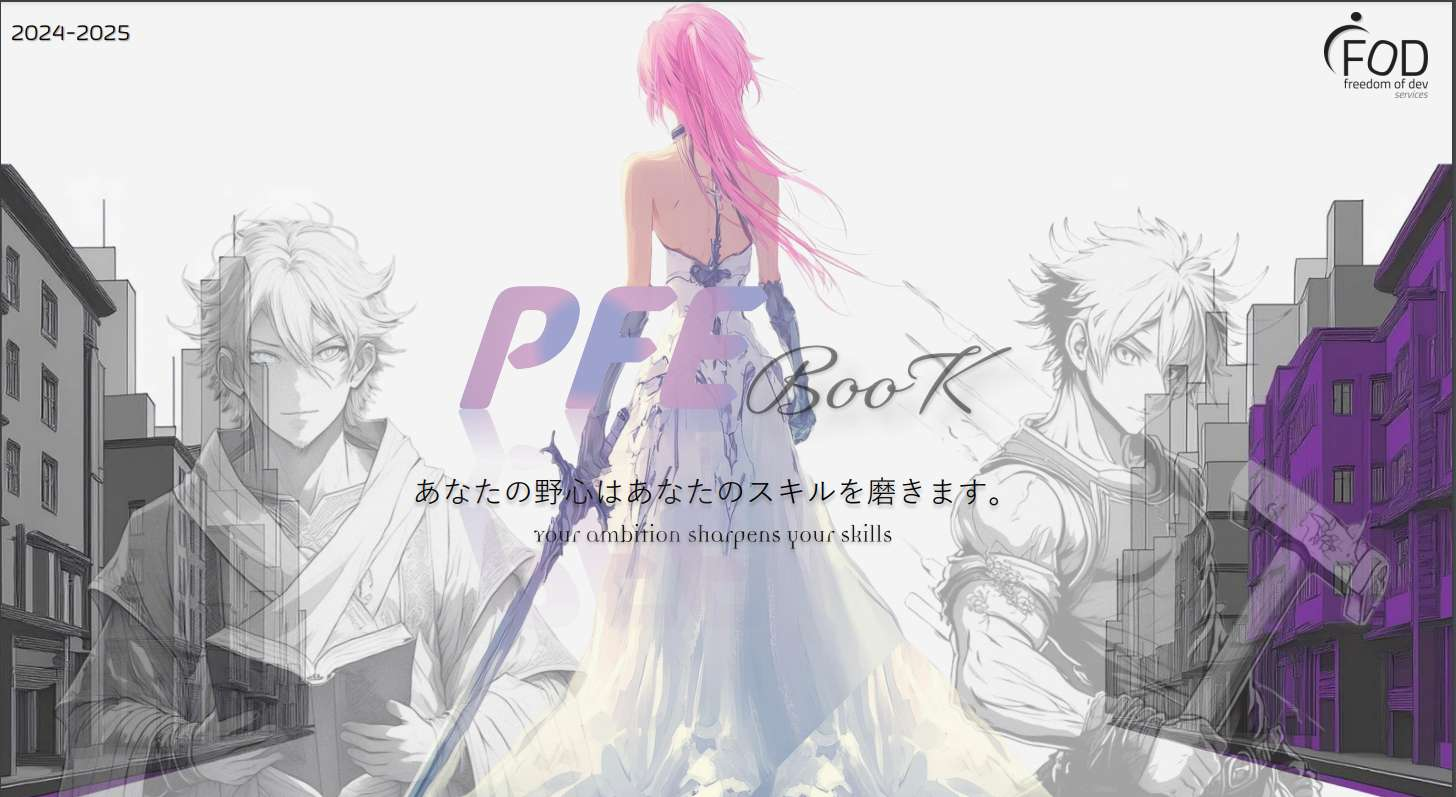
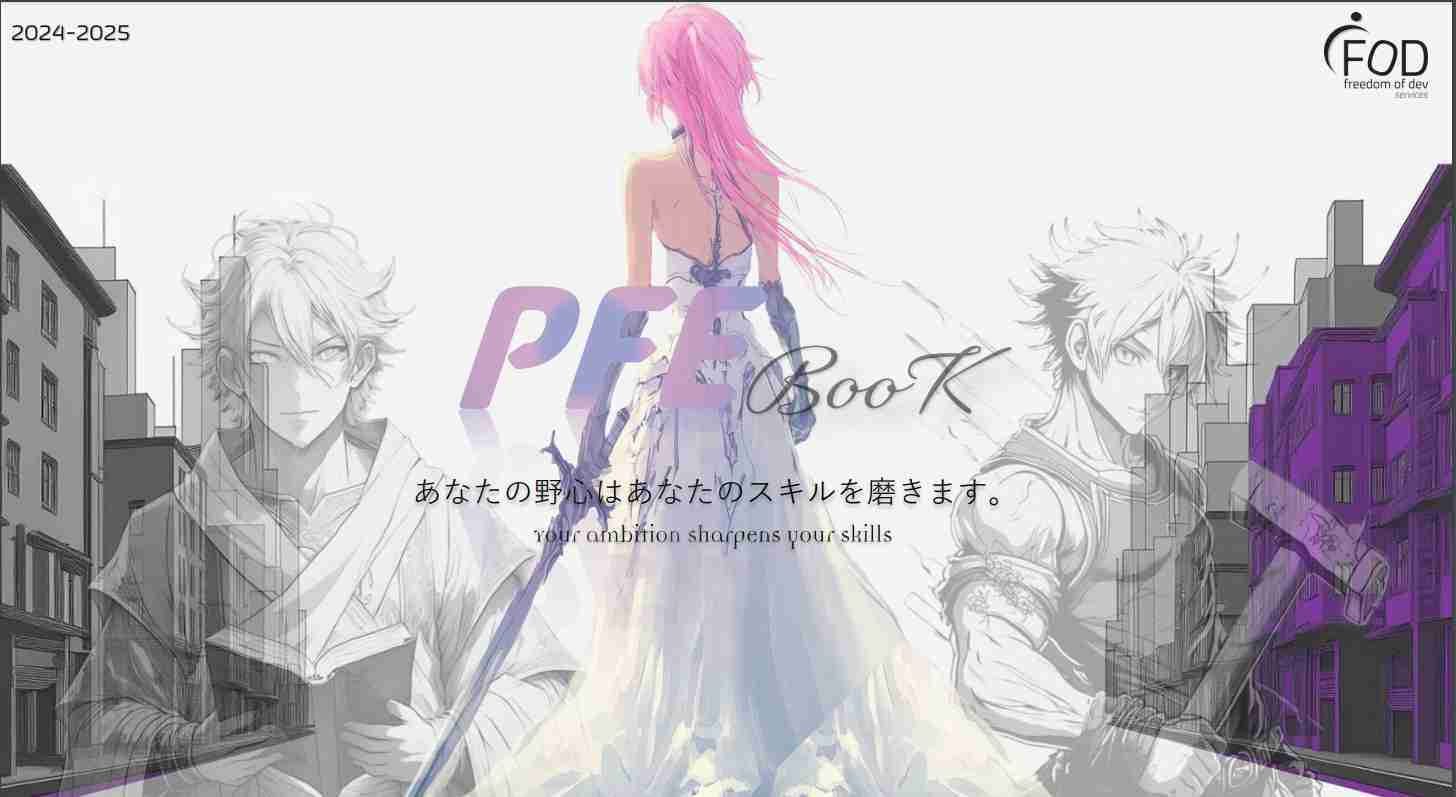
compressed the pics

diff --git a/pdfs.js b/pdfs.js
@@ -14,7 +14,7 @@ books = [
         "company": "DNEXT",
         "deadline": "",
         "Tags": "AI, Generative AI, LLMs, DevOps, ",
-        "thumbnail_url": "/assets/images/DNEXT.png",
+        "thumbnail_url": "/assets/images/DNEXT.jpg",
         "pdf_url":  "./assets/pdfs/DNEXT.pdf",
         "linked_url": "https://www.linkedin.com/posts/dnext-intelligence_dnext-pfe-book-24-25-activity-7259990277656907776-SlSa?utm_source=share&utm_medium=member_desktop"
     },
@@ -22,7 +22,7 @@ books = [
         "company": "ATS",
         "deadline": "",
         "Tags": "Web Development, PO, QA",
-        "thumbnail_url": "/assets/images/ATS.png",
+        "thumbnail_url": "/assets/images/ATS.jpg",
         "pdf_url":  "./assets/pdfs/ATS.pdf",
         "linked_url": "https://www.linkedin.com/posts/ats---digital-dev_pfe-book-ats-2025-activity-7246564406350761985-Gclf?utm_source=share&utm_medium=member_desktop"
     },
@@ -46,7 +46,7 @@ books = [
         "company": "SOPAL",
         "deadline": "20 December 2024",
         "Tags": "Technical development, IT, Supply Chain Management, Continuous Improvement, Product Quality and Metrology, SMI",
-        "thumbnail_url": "/assets/images/SOPAL.png",
+        "thumbnail_url": "/assets/images/SOPAL.jpg",
         "pdf_url":  "./assets/pdfs/SOPAL.pdf",
         "linked_url": "https://www.linkedin.com/posts/sopal_pfe-book-sopal-2024-2025-activity-7259892917689864194-l9T5?utm_source=share&utm_medium=member_desktop"
     },
@@ -97,7 +97,7 @@ books = [
         "company": "Dar Blockchain",
         "deadline": "30 November 2024",
         "Tags": "Python, AI, ML, Web Development, BI, Blockchain, Design",
-        "thumbnail_url": "/assets/images/DarBlockchain.png",
+        "thumbnail_url": "/assets/images/DarBlockchain.jpg",
         "pdf_url": "./assets/pdfs/DarBlockchain.pdf",
         "linked_url": "https://www.linkedin.com/posts/dar-blockchain_pfe-book-tech-2025-activity-7259921019019137024-Kx_-?utm_source=share&utm_medium=member_desktop"
     },
@@ -121,7 +121,7 @@ books = [
         "company": "Value",
         "deadline": "",
         "Tags": "Web Development, Mobile Development, AI, DevOps, QA, Automation, Marketing, Sales, Business Development, Digital Marketing, Graphic Design, Management",
-        "thumbnail_url": "/assets/images/Value.png",
+        "thumbnail_url": "/assets/images/Value.jpg",
         "pdf_url": "./assets/pdfs/Value.pdf",
         "linked_url": "https://www.linkedin.com/posts/value-tunisie_catalogue-pfe-2024-2025-activity-7259191338087174145-ZgMd?utm_source=share&utm_medium=member_desktop"
     },
@@ -129,7 +129,7 @@ books = [
         "company": "celestial Wave Digital",
         "deadline": "",
         "Tags": "Web Development, Mobile Development",
-        "thumbnail_url": "/assets/images/CWD.png",
+        "thumbnail_url": "/assets/images/CWD.jpg",
         "pdf_url": "./assets/pdfs/CWD.pdf",
         "linked_url": "https://www.linkedin.com/posts/celestial-wave-digital_pfe-book-2025-activity-7259256705824305152-IY6w?utm_source=share&utm_medium=member_desktop"
     },
@@ -145,7 +145,7 @@ books = [
         "company": "Sofrecom",
         "deadline": "21 november 2024",
         "Tags": "DevOps, MLOps, Web Development, Mobile Development, AI, Python, Cloud, BI, Test Automation, Blockchain",
-        "thumbnail_url": "/assets/images/Sofrecom.png",
+        "thumbnail_url": "/assets/images/Sofrecom.jpg",
         "pdf_url": "./assets/pdfs/Sofrecom.pdf",
         "linked_url": "https://www.linkedin.com/posts/sofrecom-tunisie_sofrecomtunisie-apprentissage-stagepfe-activity-7259214236663369728-RmvT?utm_source=share&utm_medium=member_desktop"
     },
@@ -153,7 +153,7 @@ books = [
         "company": "E-Skills Agency",
         "deadline": "23 december 2024",
         "Tags": "Web Development, QA, Business Development, Graphic Design, Video Editing, Odoo ",
-        "thumbnail_url": "/assets/images/Eskills.png",
+        "thumbnail_url": "/assets/images/Eskills.jpg",
         "pdf_url": "./assets/pdfs/Eskills.pdf",
         "linked_url": "https://www.linkedin.com/posts/eskillstn_catalogue-pfe-2024-2025-activity-7259235554246967296-k7Lt?utm_source=share&utm_medium=member_desktop"
     },
@@ -161,7 +161,7 @@ books = [
         "company": "SeekMake",
         "deadline": "",
         "Tags": "IT, UI/UX design, Copy Writing, QA testing, Graphic Design, Finance, Business Development, Marketing, Sales  ",
-        "thumbnail_url": "/assets/images/SeekMake.png",
+        "thumbnail_url": "/assets/images/SeekMake.jpg",
         "pdf_url": "./assets/pdfs/SeekMake.pdf",
         "linked_url": "https://www.linkedin.com/posts/seekmake_pfe-book-activity-7259588130238857216-Hoou?utm_source=share&utm_medium=member_desktop"
     },
@@ -185,7 +185,7 @@ books = [
         "company": "KAMIOUN",
         "deadline": "",
         "Tags": "UI/UX Design, Web Development, Mobile Development, DevOps, Data, Finance, Supply Chain, Marketing",
-        "thumbnail_url": "/assets/images/KAMIOUN.png",
+        "thumbnail_url": "/assets/images/KAMIOUN.jpg",
         "pdf_url": "./assets/pdfs/KAMIOUN.pdf",
         "linked_url": "https://www.linkedin.com/posts/kamioun_pfe-book-2025pdf-activity-7259534180928131074-9yk3?utm_source=share&utm_medium=member_desktop"
     },
@@ -193,7 +193,7 @@ books = [
         "company": "Primatec",
         "deadline": "",
         "Tags": "Embedded, Testing, Automation, AI",
-        "thumbnail_url": "/assets/images/Primatec.png",
+        "thumbnail_url": "/assets/images/Primatec.jpg",
         "pdf_url": "./assets/pdfs/Primatec.pdf",
         "linked_url": "https://www.linkedin.com/posts/primatec-engineering_pfe-book-2025-activity-7259846576414605312-3Fyr?utm_source=share&utm_medium=member_desktop"
     },
@@ -201,7 +201,7 @@ books = [
         "company": "Stockly",
         "deadline": "",
         "Tags": "Web Development",
-        "thumbnail_url": "/assets/images/Stockly.png",
+        "thumbnail_url": "/assets/images/Stockly.jpg",
         "pdf_url": "",
         "linked_url": "https://www.linkedin.com/posts/stockly_we-are-hiring-software-engineer-interns-activity-7259844495356170240-l-S0?utm_source=share&utm_medium=member_desktop"
     },
@@ -209,7 +209,7 @@ books = [
         "company": "Leoni",
         "deadline": "",
         "Tags": "IT, Finance, Mechanics, Electronics, Mecatronics, Industrial, Embedded, Marketing, Psychology, Robotics",
-        "thumbnail_url": "/assets/images/Leoni.png",
+        "thumbnail_url": "/assets/images/Leoni.jpg",
         "pdf_url": "./assets/pdfs/Leoni.pdf",
         "linked_url": "https://www.linkedin.com/posts/farah-jemili_leoni-pfe-book-2024-2025-activity-7259856927390646273-9BCV?utm_source=share&utm_medium=member_desktop"
     },
@@ -217,7 +217,7 @@ books = [
         "company": "Sagemcom",
         "deadline": "",
         "Tags": "",
-        "thumbnail_url": "/assets/images/Sagemcom.png",
+        "thumbnail_url": "/assets/images/Sagemcom.jpg",
         "pdf_url": "",
         "linked_url": "https://www.linkedin.com/posts/baldi-khawla-514b171a7_la-campagne-de-recrutement-de-stages-pfe-activity-7257026741959872513-hF_N?utm_source=share&utm_medium=member_desktop"
     },
@@ -233,7 +233,7 @@ books = [
         "company": "Tunisie Telecom",
         "deadline": "22 November 2024",
         "Tags": " Web, Mobile, Embedded, IoT, AI, Data, Telecom, 5G, Security, Cloud, LSS",
-        "thumbnail_url": "/assets/images/TT.png",
+        "thumbnail_url": "/assets/images/TT.jpg",
         "pdf_url": "./assets/pdfs/TT.pdf",
         "linked_url": "https://www.linkedin.com/posts/tunisie-t-l-com_pfe-book-2024-2025-activity-7258419340645941248-ECmj?utm_source=share&utm_medium=member_desktop"
     },
@@ -266,7 +266,7 @@ books = [
         "company": "WeFactory",
         "deadline": "",
         "Tags": " Web Development, Mobile Development, Design, Marketing",
-        "thumbnail_url": "/assets/images/WeFactory.png",
+        "thumbnail_url": "/assets/images/WeFactory.jpg",
         "pdf_url": "./assets/pdfs/WeFactory.pdf",
         "linked_url": "https://www.linkedin.com/posts/yaya-traore_catalogue-activity-7258858584514420736-mmvq?utm_source=share&utm_medium=member_desktop"
     },
